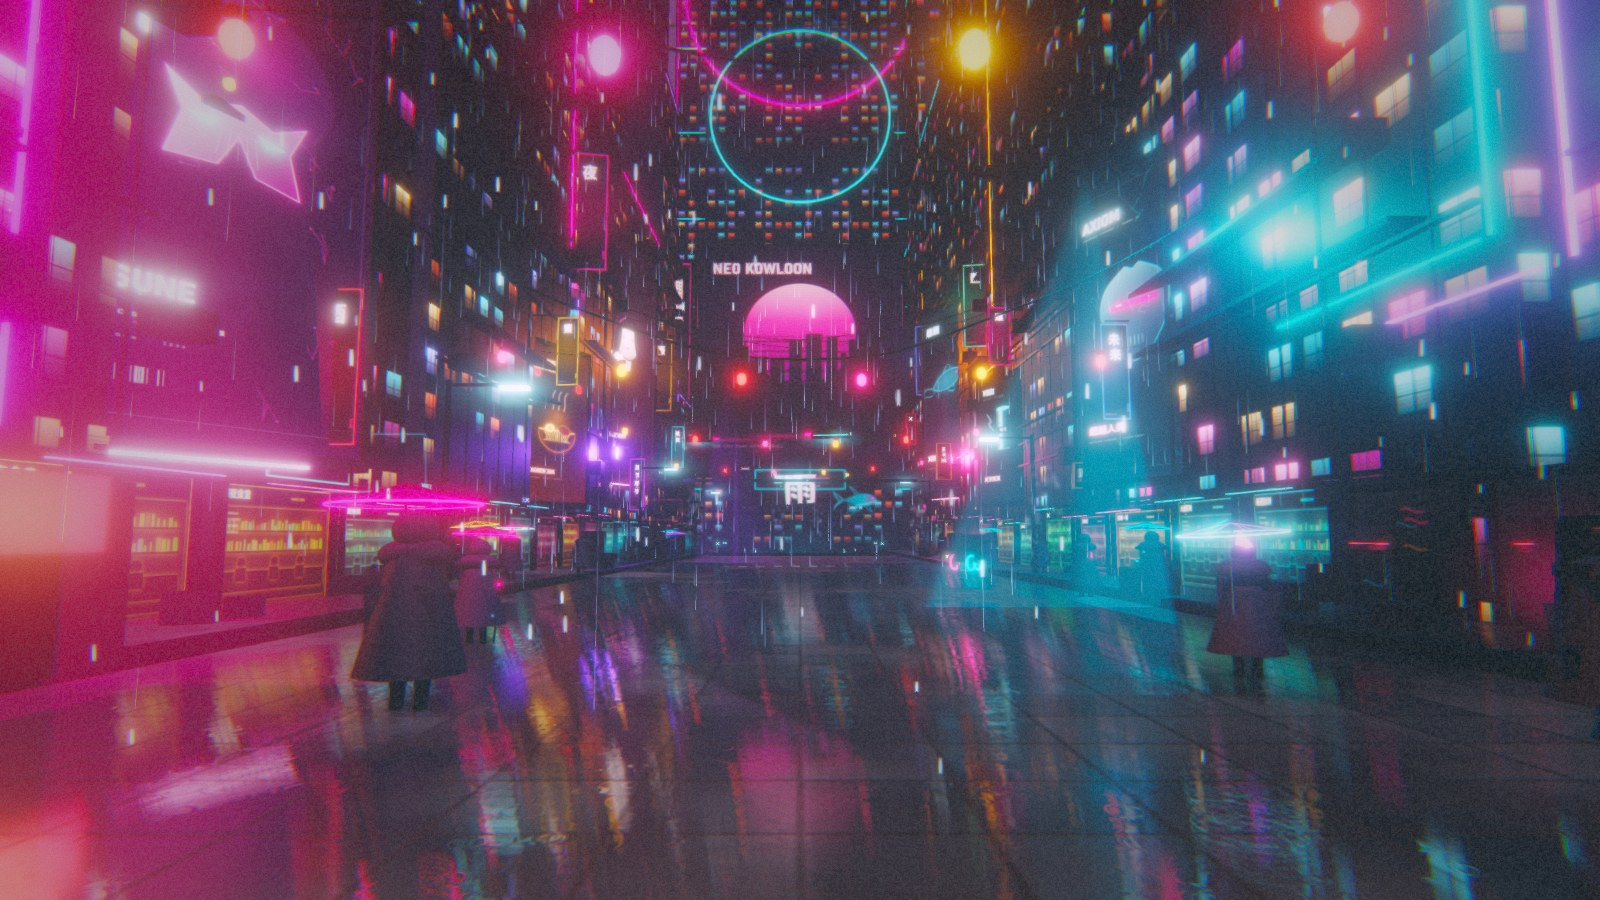
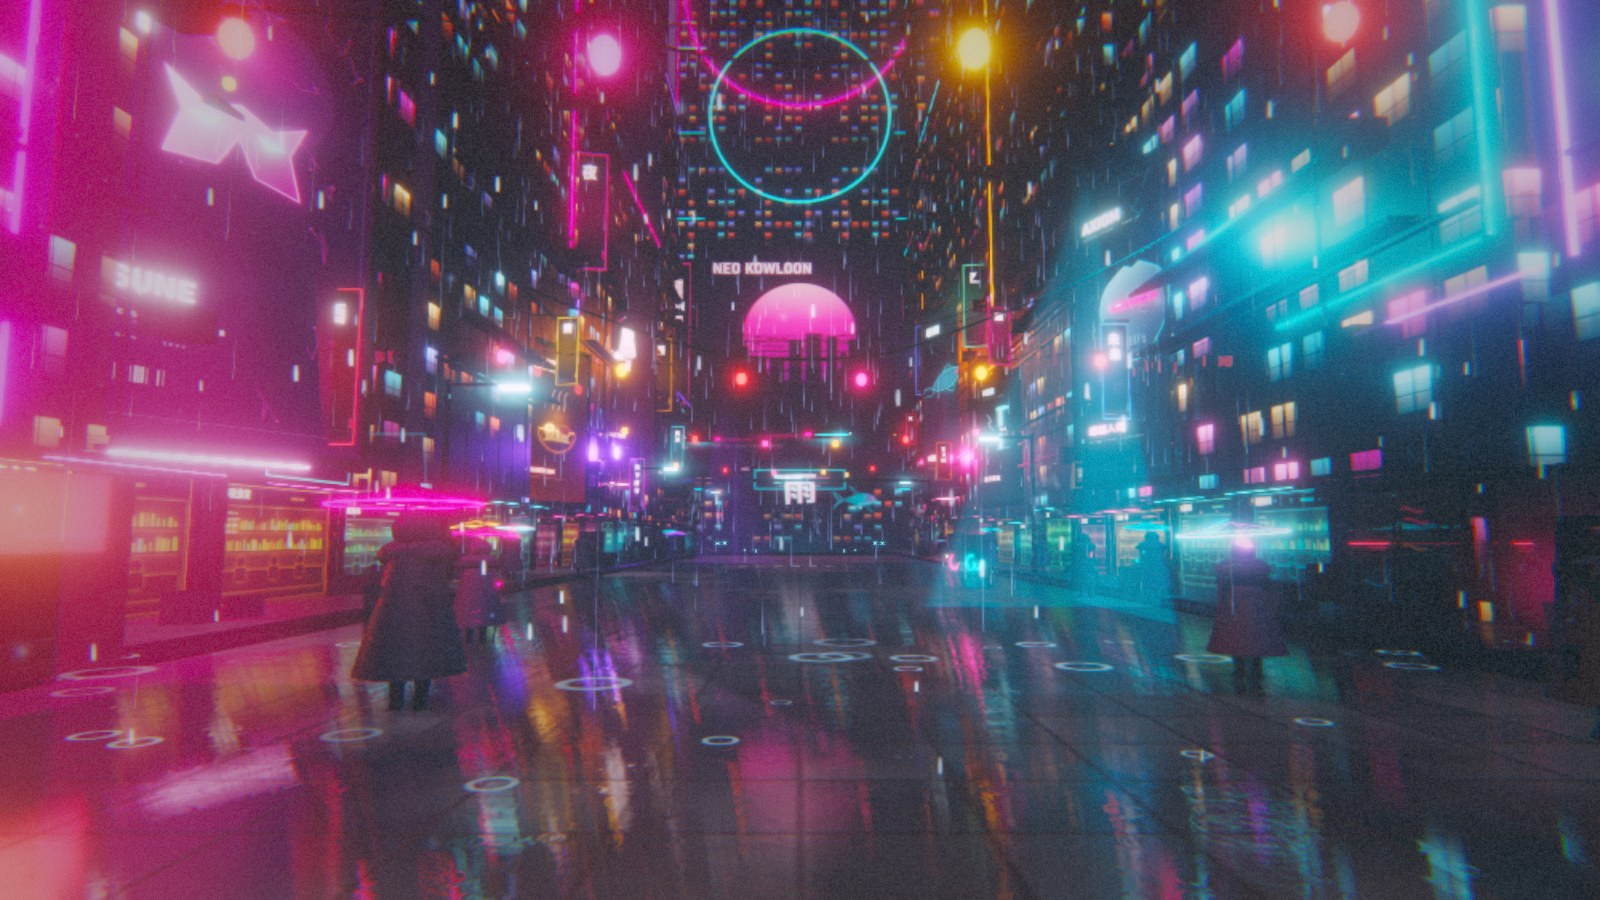
Add vertical wet-wall SSR

diff --git a/site/standalone.html b/site/standalone.html
@@ -1380,7 +1380,8 @@ function(t,e){"object"==typeof exports&&"undefined"!=typeof module?e(exports):"f
         reflectionScale: 0.5,
         sceneScale: 1.0,
         exposure: 1.02,
-        bloomStrength: 0.98
+        bloomStrength: 0.98,
+        ssr: true
       }, opts || {});
       this.quad = makeQuad(renderer);
       this.width = 1; this.height = 1; this.pixelRatio = 1;
@@ -1390,7 +1391,9 @@ function(t,e){"object"==typeof exports&&"undefined"!=typeof module?e(exports):"f
       this.bloomB = [];
       this.streakRT = null;
       this.compositeRT = null;
-      this.taaA = null; this.taaB = null; this.taaRead = null; this.taaWrite = null;
+      this.taaA = null; this.taaB = null; this.taaRead = null; this.taaWrite = null; this.ssrRT = null;
+      this.ssrRT = null;
+      this._camPos = new THREE.Vector3();
       this.prevViewProj = new THREE.Matrix4();
       this.taaReset = true;
       this.taaFrame = 0;
@@ -1762,6 +1765,71 @@ function(t,e){"object"==typeof exports&&"undefined"!=typeof module?e(exports):"f
       `,
       depthTest: false, depthWrite: false
     });
+
+    this.ssrMat = new THREE.ShaderMaterial({
+      uniforms: {
+        tScene: { value: null },
+        tDepth: { value: null },
+        uProj: { value: new THREE.Matrix4() },
+        uInvProj: { value: new THREE.Matrix4() },
+        uView: { value: new THREE.Matrix4() },
+        uCameraWorld: { value: new THREE.Matrix4() },
+        uCameraPos: { value: new THREE.Vector3() },
+        uNear: { value: 0.1 },
+        uFar: { value: 260 },
+        uStrength: { value: 0.72 }
+      },
+      vertexShader: VS,
+      fragmentShader: `
+        uniform sampler2D tScene, tDepth;
+        uniform mat4 uProj, uInvProj, uView, uCameraWorld;
+        uniform vec3 uCameraPos;
+        uniform float uNear, uFar, uStrength;
+        varying vec2 vUv;
+        float linearDepth(float d) {
+          float z = d * 2.0 - 1.0;
+          return (2.0 * uNear * uFar) / (uFar + uNear - z * (uFar - uNear));
+        }
+        void main() {
+          vec3 base = texture2D(tScene, vUv).rgb;
+          float d = texture2D(tDepth, vUv).x;
+          if (d >= 0.999) { gl_FragColor = vec4(base, 1.0); return; }
+          vec4 clip = vec4(vUv * 2.0 - 1.0, d * 2.0 - 1.0, 1.0);
+          vec4 vp = uInvProj * clip;
+          vp /= vp.w;
+          vec3 wpos = (uCameraWorld * vec4(vp.xyz, 1.0)).xyz;
+          vec3 n = normalize(cross(dFdx(wpos), dFdy(wpos)));
+          if (dot(n, uCameraPos - wpos) < 0.0) n = -n;
+          float vertical = 1.0 - smoothstep(0.28, 0.62, abs(n.y));
+          if (vertical < 0.01) { gl_FragColor = vec4(base, 1.0); return; }
+          vec3 V = normalize(wpos - uCameraPos);
+          vec3 R = reflect(V, n);
+          float fres = pow(1.0 - max(dot(-V, n), 0.0), 3.0);
+          vec3 reflected = vec3(0.0);
+          float hit = 0.0;
+          for (int i = 1; i <= 18; i++) {
+            float dist = float(i) * 0.42;
+            vec3 rp = wpos + n * 0.06 + R * dist;
+            vec4 cp = uProj * uView * vec4(rp, 1.0);
+            if (cp.w <= 0.0) break;
+            vec2 uv = cp.xy / cp.w * 0.5 + 0.5;
+            if (uv.x < 0.0 || uv.x > 1.0 || uv.y < 0.0 || uv.y > 1.0) break;
+            float sd = texture2D(tDepth, uv).x;
+            if (sd >= 0.999) continue;
+            float sceneZ = linearDepth(sd);
+            float rayZ = -(uView * vec4(rp, 1.0)).z;
+            if (rayZ > sceneZ && rayZ - sceneZ < 1.4) {
+              reflected = texture2D(tScene, uv).rgb;
+              hit = 1.0;
+              break;
+            }
+          }
+          base += reflected * hit * vertical * (0.25 + fres * 0.75) * uStrength * 0.32;
+          gl_FragColor = vec4(base, 1.0);
+        }
+      `,
+      depthTest: false, depthWrite: false
+    });
     }
 
     setSize(w, h, pixelRatio) {
@@ -1787,6 +1855,7 @@ function(t,e){"object"==typeof exports&&"undefined"!=typeof module?e(exports):"f
       this.taaB = this.createRT(sw, sh);
       this.taaRead = this.taaA;
       this.taaWrite = this.taaB;
+      this.ssrRT = this.createRT(Math.max(1, Math.floor(sw * 0.5)), Math.max(1, Math.floor(sh * 0.5)));
       this.taaMat.uniforms.uResolution.value.set(sw, sh);
       this.taaReset = true;
       let lw = Math.max(1, Math.floor(sw * 0.5));
@@ -1813,6 +1882,7 @@ function(t,e){"object"==typeof exports&&"undefined"!=typeof module?e(exports):"f
       if (this.sceneDepth) this.sceneDepth.dispose();
       if (this.taaA) this.taaA.dispose();
       if (this.taaB) this.taaB.dispose();
+      if (this.ssrRT) this.ssrRT.dispose();
       this.sceneDepth = null;
       this.taaA = null; this.taaB = null; this.taaRead = null; this.taaWrite = null;
       this.bloomA = []; this.bloomB = [];
@@ -1865,7 +1935,24 @@ function(t,e){"object"==typeof exports&&"undefined"!=typeof module?e(exports):"f
         this.taaReset = false;
       }
       this.prevViewProj.copy(viewProj);
-      const sceneTex = taa ? this.taaRead.texture : this.sceneRT.texture;
+      let sceneTex = taa ? this.taaRead.texture : this.sceneRT.texture;
+
+      // 2c. screen-space reflections for vertical wet walls
+      if (this.opts.ssr !== false && this.ssrRT) {
+        const S = this.ssrMat.uniforms;
+        S.tScene.value = sceneTex;
+        S.tDepth.value = this.sceneDepth;
+        S.uProj.value.copy(camera.projectionMatrix);
+        S.uInvProj.value.copy(camera.projectionMatrixInverse);
+        S.uView.value.copy(camera.matrixWorldInverse);
+        S.uCameraWorld.value.copy(camera.matrixWorld);
+        camera.getWorldPosition(this._camPos);
+        S.uCameraPos.value.copy(this._camPos);
+        S.uNear.value = camera.near;
+        S.uFar.value = camera.far;
+        this.quad.draw(this.ssrMat, this.ssrRT);
+        sceneTex = this.ssrRT.texture;
+      }
 
       // 3. bright pass -> bloom mip 0
       this.brightMat.uniforms.tDiffuse.value = sceneTex;
@@ -5514,7 +5601,8 @@ function(t,e){"object"==typeof exports&&"undefined"!=typeof module?e(exports):"f
         sceneScale: this.quality.sceneScale,
         reflectionScale: this.quality.reflectionScale,
         exposure: 1.38,
-        bloomStrength: 1.12
+        bloomStrength: 1.12,
+        ssr: this.qualityKey !== 'low'
       });
       this.applySizes();
       this.bootStep('SEEDING RAIN // 落雨', 74);
@@ -5731,6 +5819,7 @@ function(t,e){"object"==typeof exports&&"undefined"!=typeof module?e(exports):"f
       if (this.post) {
         this.post.opts.sceneScale = this.quality.sceneScale;
         this.post.opts.msaa = this.quality.msaa;
+        this.post.opts.ssr = this.qualityKey !== 'low';
         this.post.width = 0;
       }
       this.applySizes();

diff --git a/site/src/post.js b/site/src/post.js
@@ -65,7 +65,8 @@
         reflectionScale: 0.5,
         sceneScale: 1.0,
         exposure: 1.02,
-        bloomStrength: 0.98
+        bloomStrength: 0.98,
+        ssr: true
       }, opts || {});
       this.quad = makeQuad(renderer);
       this.width = 1; this.height = 1; this.pixelRatio = 1;
@@ -75,7 +76,9 @@
       this.bloomB = [];
       this.streakRT = null;
       this.compositeRT = null;
-      this.taaA = null; this.taaB = null; this.taaRead = null; this.taaWrite = null;
+      this.taaA = null; this.taaB = null; this.taaRead = null; this.taaWrite = null; this.ssrRT = null;
+      this.ssrRT = null;
+      this._camPos = new THREE.Vector3();
       this.prevViewProj = new THREE.Matrix4();
       this.taaReset = true;
       this.taaFrame = 0;
@@ -447,6 +450,71 @@
       `,
       depthTest: false, depthWrite: false
     });
+
+    this.ssrMat = new THREE.ShaderMaterial({
+      uniforms: {
+        tScene: { value: null },
+        tDepth: { value: null },
+        uProj: { value: new THREE.Matrix4() },
+        uInvProj: { value: new THREE.Matrix4() },
+        uView: { value: new THREE.Matrix4() },
+        uCameraWorld: { value: new THREE.Matrix4() },
+        uCameraPos: { value: new THREE.Vector3() },
+        uNear: { value: 0.1 },
+        uFar: { value: 260 },
+        uStrength: { value: 0.72 }
+      },
+      vertexShader: VS,
+      fragmentShader: `
+        uniform sampler2D tScene, tDepth;
+        uniform mat4 uProj, uInvProj, uView, uCameraWorld;
+        uniform vec3 uCameraPos;
+        uniform float uNear, uFar, uStrength;
+        varying vec2 vUv;
+        float linearDepth(float d) {
+          float z = d * 2.0 - 1.0;
+          return (2.0 * uNear * uFar) / (uFar + uNear - z * (uFar - uNear));
+        }
+        void main() {
+          vec3 base = texture2D(tScene, vUv).rgb;
+          float d = texture2D(tDepth, vUv).x;
+          if (d >= 0.999) { gl_FragColor = vec4(base, 1.0); return; }
+          vec4 clip = vec4(vUv * 2.0 - 1.0, d * 2.0 - 1.0, 1.0);
+          vec4 vp = uInvProj * clip;
+          vp /= vp.w;
+          vec3 wpos = (uCameraWorld * vec4(vp.xyz, 1.0)).xyz;
+          vec3 n = normalize(cross(dFdx(wpos), dFdy(wpos)));
+          if (dot(n, uCameraPos - wpos) < 0.0) n = -n;
+          float vertical = 1.0 - smoothstep(0.28, 0.62, abs(n.y));
+          if (vertical < 0.01) { gl_FragColor = vec4(base, 1.0); return; }
+          vec3 V = normalize(wpos - uCameraPos);
+          vec3 R = reflect(V, n);
+          float fres = pow(1.0 - max(dot(-V, n), 0.0), 3.0);
+          vec3 reflected = vec3(0.0);
+          float hit = 0.0;
+          for (int i = 1; i <= 18; i++) {
+            float dist = float(i) * 0.42;
+            vec3 rp = wpos + n * 0.06 + R * dist;
+            vec4 cp = uProj * uView * vec4(rp, 1.0);
+            if (cp.w <= 0.0) break;
+            vec2 uv = cp.xy / cp.w * 0.5 + 0.5;
+            if (uv.x < 0.0 || uv.x > 1.0 || uv.y < 0.0 || uv.y > 1.0) break;
+            float sd = texture2D(tDepth, uv).x;
+            if (sd >= 0.999) continue;
+            float sceneZ = linearDepth(sd);
+            float rayZ = -(uView * vec4(rp, 1.0)).z;
+            if (rayZ > sceneZ && rayZ - sceneZ < 1.4) {
+              reflected = texture2D(tScene, uv).rgb;
+              hit = 1.0;
+              break;
+            }
+          }
+          base += reflected * hit * vertical * (0.25 + fres * 0.75) * uStrength * 0.32;
+          gl_FragColor = vec4(base, 1.0);
+        }
+      `,
+      depthTest: false, depthWrite: false
+    });
     }
 
     setSize(w, h, pixelRatio) {
@@ -472,6 +540,7 @@
       this.taaB = this.createRT(sw, sh);
       this.taaRead = this.taaA;
       this.taaWrite = this.taaB;
+      this.ssrRT = this.createRT(Math.max(1, Math.floor(sw * 0.5)), Math.max(1, Math.floor(sh * 0.5)));
       this.taaMat.uniforms.uResolution.value.set(sw, sh);
       this.taaReset = true;
       let lw = Math.max(1, Math.floor(sw * 0.5));
@@ -498,6 +567,7 @@
       if (this.sceneDepth) this.sceneDepth.dispose();
       if (this.taaA) this.taaA.dispose();
       if (this.taaB) this.taaB.dispose();
+      if (this.ssrRT) this.ssrRT.dispose();
       this.sceneDepth = null;
       this.taaA = null; this.taaB = null; this.taaRead = null; this.taaWrite = null;
       this.bloomA = []; this.bloomB = [];
@@ -550,7 +620,24 @@
         this.taaReset = false;
       }
       this.prevViewProj.copy(viewProj);
-      const sceneTex = taa ? this.taaRead.texture : this.sceneRT.texture;
+      let sceneTex = taa ? this.taaRead.texture : this.sceneRT.texture;
+
+      // 2c. screen-space reflections for vertical wet walls
+      if (this.opts.ssr !== false && this.ssrRT) {
+        const S = this.ssrMat.uniforms;
+        S.tScene.value = sceneTex;
+        S.tDepth.value = this.sceneDepth;
+        S.uProj.value.copy(camera.projectionMatrix);
+        S.uInvProj.value.copy(camera.projectionMatrixInverse);
+        S.uView.value.copy(camera.matrixWorldInverse);
+        S.uCameraWorld.value.copy(camera.matrixWorld);
+        camera.getWorldPosition(this._camPos);
+        S.uCameraPos.value.copy(this._camPos);
+        S.uNear.value = camera.near;
+        S.uFar.value = camera.far;
+        this.quad.draw(this.ssrMat, this.ssrRT);
+        sceneTex = this.ssrRT.texture;
+      }
 
       // 3. bright pass -> bloom mip 0
       this.brightMat.uniforms.tDiffuse.value = sceneTex;

diff --git a/site/src/app.js b/site/src/app.js
@@ -148,7 +148,8 @@
         sceneScale: this.quality.sceneScale,
         reflectionScale: this.quality.reflectionScale,
         exposure: 1.38,
-        bloomStrength: 1.12
+        bloomStrength: 1.12,
+        ssr: this.qualityKey !== 'low'
       });
       this.applySizes();
       this.bootStep('SEEDING RAIN // 落雨', 74);
@@ -365,6 +366,7 @@
       if (this.post) {
         this.post.opts.sceneScale = this.quality.sceneScale;
         this.post.opts.msaa = this.quality.msaa;
+        this.post.opts.ssr = this.qualityKey !== 'low';
         this.post.width = 0;
       }
       this.applySizes();

diff --git a/README.md b/README.md
@@ -28,10 +28,10 @@ A single-scene WebGL2 application. The deployable site is plain HTML plus classi
 | File | Role |
 | --- | --- |
 | `src/tex.js` | Canvas 2D texture atelier: facade atlases and bump fields, windows, billboards, shopfronts, smoke, koi, reflection environment |
-| `src/post.js` | TAA, HDR target, five-level bloom, depth AO/DOF, FXAA, ACES grade, grain, lens droplets, super-sampling |
+| `src/post.js` | TAA, vertical-wall SSR, HDR target, five-level bloom, depth AO/DOF, FXAA, ACES grade, grain, lens droplets, super-sampling |
 | `src/world.js` | City generator, baked static shadow map sampled by wet ground, parallax hero windows, water, sky, planar mirror, lighting |
 | `src/props.js` | Storefronts, hero window bays/fire escapes, blade signs, cables, lanterns, volumetric shafts, steam, fog, hoverbike, gantry |
-| `src/actors.js` | GPU rain (line + foreground sprite layer), fountain, six citizen archetypes with shared rigs and coat cloth, flying traffic, holographic koi, ripples |
+| `src/actors.js` | GPU rain (lines, foreground sprites, splash rings, lamp mist), fountain, six citizen archetypes with shared rigs and coat cloth, flying traffic, holographic koi, ripples |
 | `src/audio.js` | Procedural WebAudio rain, hum, synth pad and thunder |
 | `src/app.js` | Camera, state machine, title/cinematic UI, input, adaptive quality |
 
@@ -50,6 +50,8 @@ city / signs / rain (Three.js scene)
         └──> HDR scene target (1.25× super-sample)
                   │
              TAA resolve (Halton jitter + depth reprojection)
+                  │
+             vertical-wall SSR (depth raymarch, half-res)
                   │
              bright pass at ½ resolution
                   │
@@ -71,6 +73,7 @@ Details worth reading:
 - **Hero windows have interior parallax.** The close-up window bays use a small view-dependent UV offset against a drawn interior, so the room behind the glass shifts against the frame as the camera moves.
 - **TAA + FXAA + super-sampling.** The HDR frame is rendered with a Halton sub-pixel jitter, then resolved against the previous frame using depth reprojection and a neighbourhood clamp. FXAA cleans the final LDR image. Multisampled float targets caused a driver artifact on one test GPU, so this path is cheaper and keeps thin neon lines stable while reducing shimmer in motion.
 - **Adaptive quality.** If the measured frame rate drops below the threshold for six seconds during play/cinematic mode, the app steps down one quality tier automatically. The HUD’s quality control can override it at any time.
+- **Vertical-wall SSR.** A half-resolution screen-space pass reconstructs world normals from depth, limits the effect to vertical surfaces, and ray-marches the depth buffer for neon reflections on wet facades. It is disabled on the low quality preset.
 - **Two-layer rain.** The far rain is 9–10k GPU line segments; a camera-following foreground layer of soft point-sprite streaks makes individual drops readable in motion instead of disappearing into 1px lines. The wet ground adds instanced splash rings, while soft motes under the main neon lights form a local rain veil.
 - **Five independent bloom mips.** A soft-threshold prefilter at half resolution feeds a Gaussian chain; all mips plus a horizontal anamorphic streak are composited before tonemapping.
 - **Every procedural texture is drawn in 2D at boot.** No `.png`, `.jpg`, `.glb` or audio file is loaded. The repository contains only code and documentation images.
